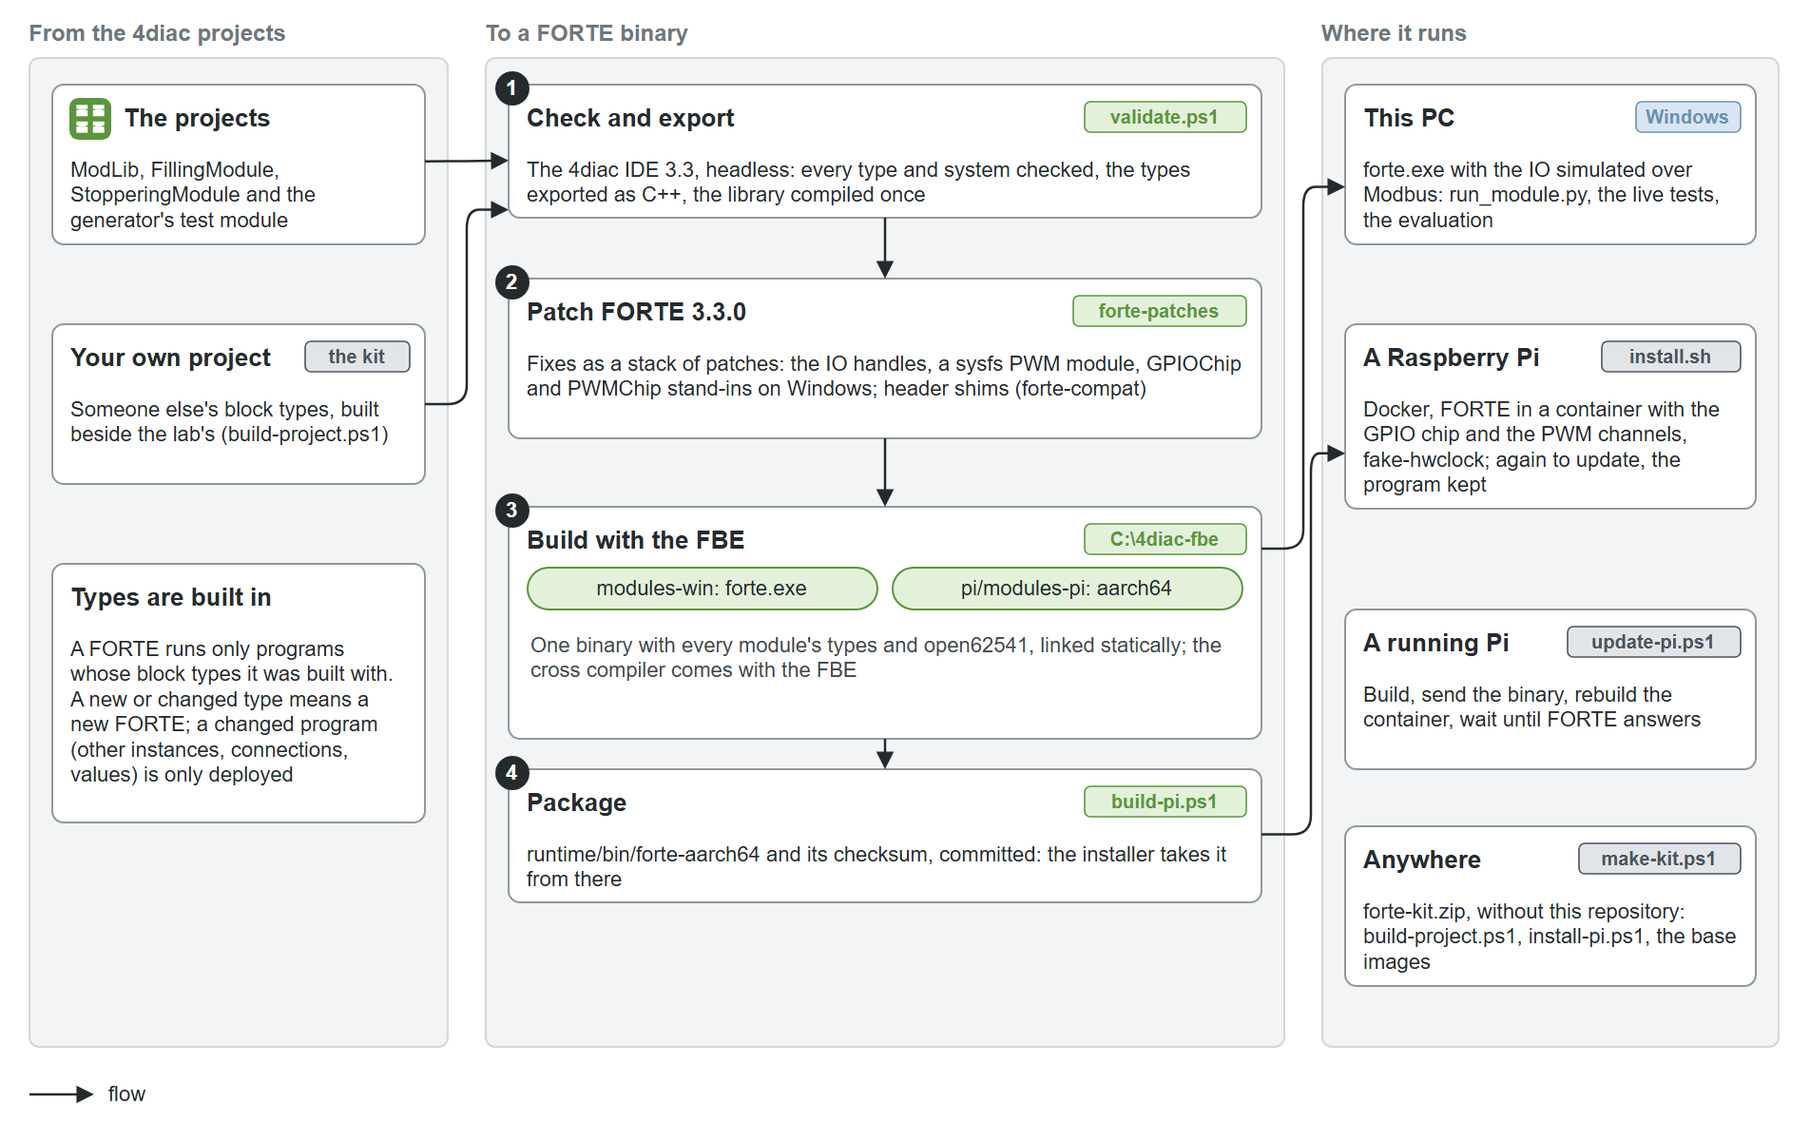
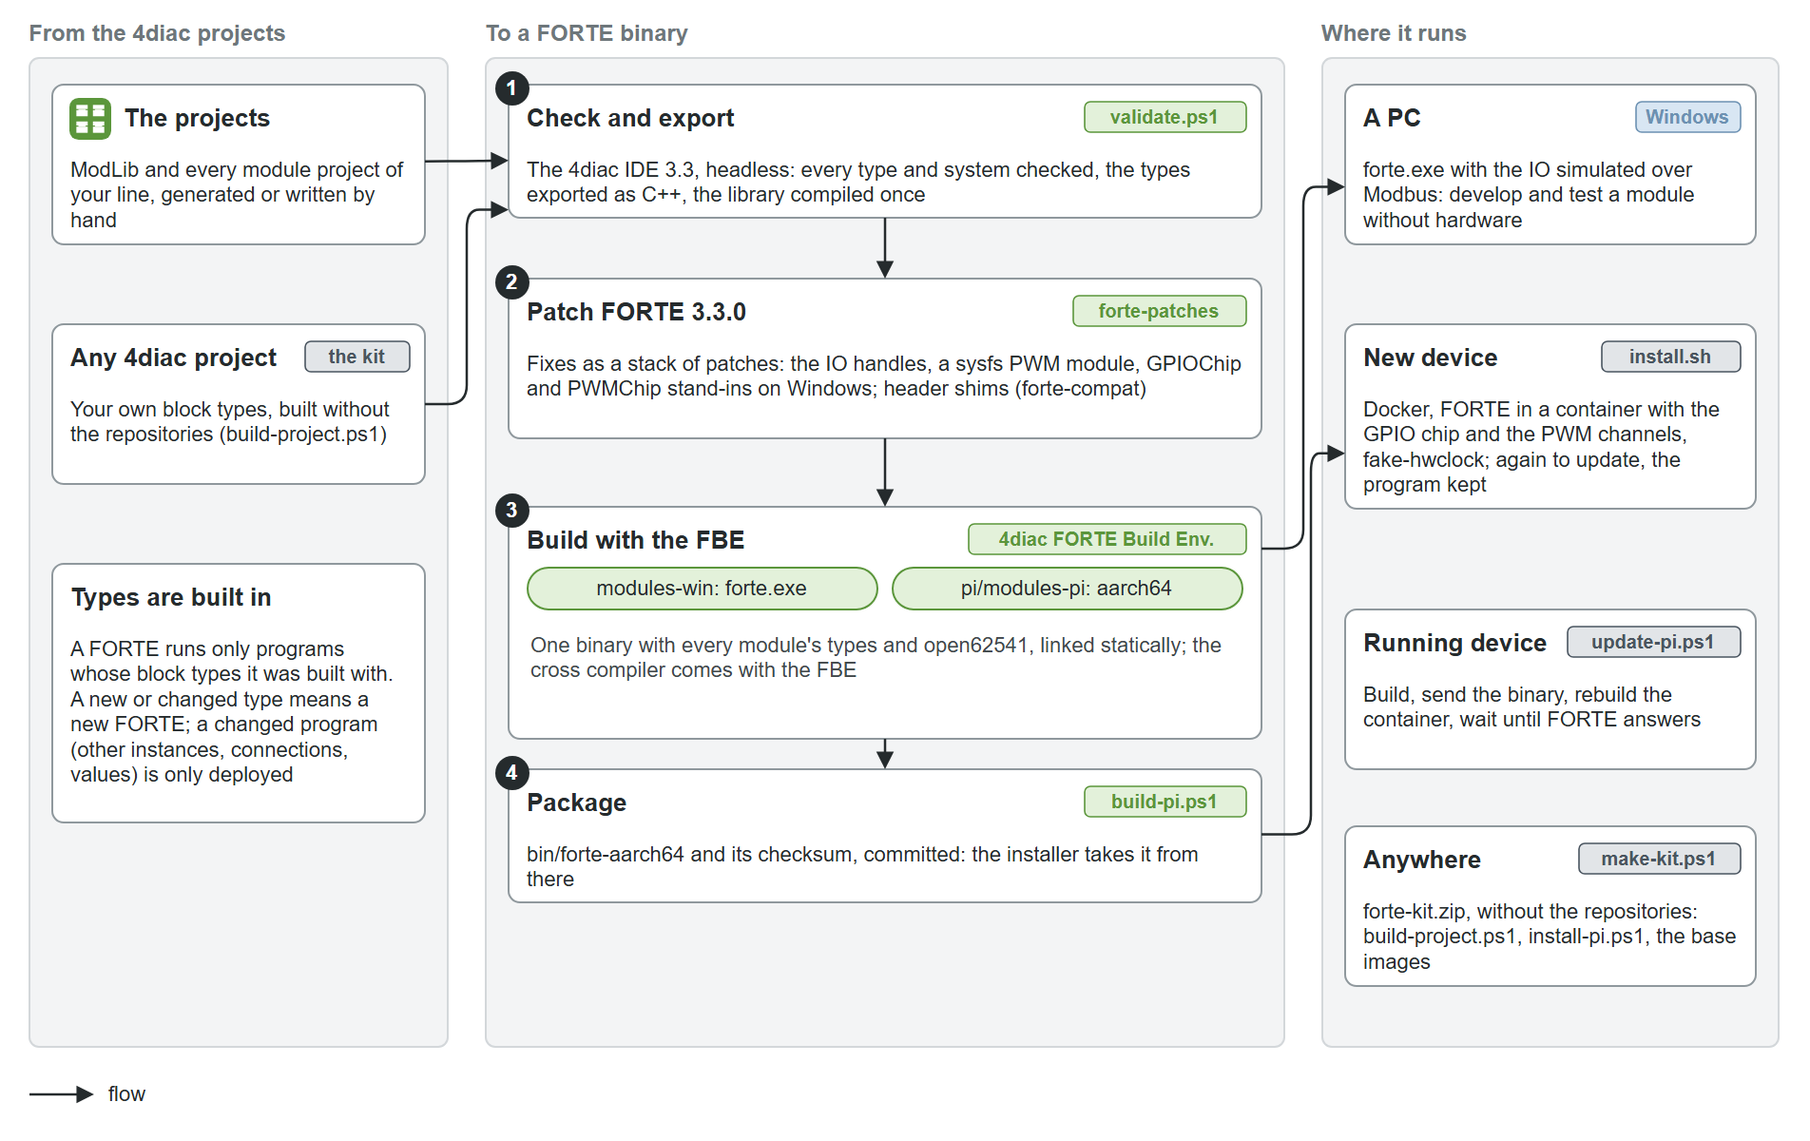
Reconfiguration pages and figures: your own modules, placeholders, current paths

diff --git a/docs/reconfiguration/modsync.md b/docs/reconfiguration/modsync.md
@@ -2,15 +2,15 @@
 
 <span class="pillar reconfiguration">Reconfiguration</span> Keeps a running IEC 61499 program and its AAS
 in step. It reads what runs over FORTE's management protocol, compares it with what the AAS describes,
-changes the program online where the module rules allow it, verifies the change and records it. Folder
-`aas61499-tools/modsync`; becomes the `modsync` repository.
+changes the program online where the module rules allow it, verifies the change and records it. A
+package of [aaspire-tools](https://github.com/AAU-AASPIRE/aaspire-tools).
 
 <figure markdown="span">
   [![The module's AAS on the left, modsync's six steps in the middle, FORTE and its boot file on the
   right](../figures/modsync.png)](../figures/modsync.png)
   <figcaption>What runs (1) and what is wanted (2) are compared (3); what may change online is guarded
-  (4), applied (5), verified and recorded (6). BottomUpFilling is described in the AAS and created
-  while the module runs.</figcaption>
+  (4), applied (5), verified and recorded (6). SkillX is described in the AAS and created while the
+  module runs.</figcaption>
 </figure>
 
 ## The six steps
@@ -35,39 +35,45 @@ changes the program online where the module rules allow it, verifies the change 
    every instance with its block type and hash.
 
 **modsync project** goes the other way: FORTE keeps the program, not the 4diac project, so the program
-read back by the rules becomes an IDE project again, with the layout arranged in the IDE.
+read back by the rules becomes an IDE project again, with the layout arranged in the IDE. Use it when
+you need to look at what a module runs and have no project for it.
 
 ## What an online change costs
 
+Measured on the example line's filling module:
+
 | Skill | Flow | Instances | Connections | Management commands |
 | --- | --- | --- | --- | --- |
-| Dispensing | 4 steps | 13 | 63 | 142 |
-| DoubleDose | 5 steps | 15 | 73 | 165 |
-| Checked | 6 steps, two decisions | 23 | 98 | 224 |
-| Ready | a parallel block of two steps | 5 | 31 | 64 |
+| A sequence of 4 steps | 4 steps | 13 | 63 | 142 |
+| A sequence of 5 steps | 5 steps | 15 | 73 | 165 |
+| With decisions | 6 steps, two decisions | 23 | 98 | 224 |
+| A parallel block | two steps in parallel | 5 | 31 | 64 |
 
-DoubleDose was created in 0.04 s on a PC and in 1.6 s in all on a Raspberry Pi 5, most of it the boot
-file over SSH, while another skill ran. Verifying a module against its AAS takes about 0.15 s over the
-network.
+A five-step skill was created in 0.04 s on a PC and in 1.6 s in all on a Raspberry Pi 5, most of it
+the boot file over SSH, while another skill ran. Verifying a module against its AAS takes about 0.15 s
+over the network.
 
 ## Use it
 
+`<aas>` is a folder of AAS files or an AAS server (`http://<host>:8081`); `--shell` picks the module's
+AAS when there are several:
+
 ```powershell
-python -m modsync verify aas --host 192.168.0.203                 # is the module what its AAS describes?
-python -m modsync verify aas --host 192.168.0.203 --record        # ... and write down what was found
-python -m modsync reconfigure http://localhost:8081 --shell FillingModuleAAS --dry-run   # what would change
-python -m modsync reconfigure aas --host 192.168.0.203            # change it online, verify, record
-python -m modsync project --host 192.168.0.203                    # the 4diac project of what runs (projects/)
-python -m modsync pull --host 192.168.0.203                       # which module runs there, its drift, its AAS
+python -m modsync verify <aas> --host <module host>                  # is the module what its AAS describes?
+python -m modsync verify <aas> --host <module host> --record         # ... and write down what was found
+python -m modsync reconfigure <aas> --shell <Module>AAS --dry-run    # what would change
+python -m modsync reconfigure <aas> --host <module host>             # change it online, verify, record
+python -m modsync project --host <module host>                       # the 4diac project of what runs (projects/)
+python -m modsync pull --host <module host>                          # which module runs there, its drift, its AAS
 ```
 
-The AASs are a folder of AAS files or an AAS server; `reconfigure` puts the changed submodels back where
-they came from, and the record goes to `--records` (a folder, `records/` by default, or the registration
-service). Without `--host`, the record says where the module is managed. `--force` writes values even
-while the module runs or is occupied.
+`reconfigure` puts the changed submodels back where they came from, and the record goes to `--records`
+(a folder, `records/` by default, or the registration service). Without `--host`, the record says where
+the module is managed. `--force` writes values even while the module runs or is occupied.
 
 The Python functions behind the commands are in `modsync/desired.py` (`load`, `read`, `differences`,
-`reconfigure`, `record`, `store`); the agents call them to create a skill before they run it.
+`reconfigure`, `record`, `store`); call them from your own code, as the agents do to create a skill
+before they run it.
 
 ## What it does not do
 
@@ -75,8 +81,8 @@ It never calls a skill ([modlink](../integration/modlink.md) does). It never rem
 online: that needs a restart, and the AAS does not hold the wiring of the rest of the program from
 which a whole boot file could be made. It changes no block types.
 
-Beside the AAS mode, modsync has an older mode against a module spec (`pull`, `push`, `watch`), the
-vendor's and the lab's development tool; it is to be folded into the AAS mode.
+Beside the AAS mode, modsync has a mode against a module spec (`pull`, `push`, `watch`), a development
+tool for whoever builds the module; it is to be folded into the AAS mode.
 
-Read further: [tools.md](../reference/tools.md),
-section 3; [mapping.md](../reference/mapping.md).
+Read further: [how the tools work](../reference/tools.md), section 3;
+[from the AAS to IEC 61499 and back](../reference/mapping.md).

diff --git a/docs/reconfiguration/runtime.md b/docs/reconfiguration/runtime.md
@@ -1,21 +1,22 @@
 # FORTE runtime
 
-<span class="pillar reconfiguration">Reconfiguration</span> Eclipse 4diac FORTE built with every module's
-block types: for Windows (the modules with simulated IO) and for the Raspberry Pi (aarch64, real IO).
-The scripts that check and export the 4diac projects, patch and build FORTE, package it and put it on a
-Pi. Folder `runtime/`; becomes the `forte-runtime` repository.
+<span class="pillar reconfiguration">Reconfiguration</span> Eclipse 4diac FORTE built with your modules'
+block types: for Windows (modules with simulated IO) and for 64-bit Linux edge devices such as a
+Raspberry Pi (aarch64, real IO). The scripts that check and export the 4diac projects, patch and build
+FORTE, package it and put it on a device. Repository
+[forte-runtime](https://github.com/AAU-AASPIRE/forte-runtime).
 
 <figure markdown="span">
   [![The 4diac projects on the left, four steps to a FORTE binary in the middle, and where it runs on
   the right](../figures/runtime.png)](../figures/runtime.png)
   <figcaption>Check and export (1), patch FORTE (2), build with the 4diac FORTE Build Environment (3),
-  package (4); then a PC, a fresh Pi, a running Pi, or someone else's PC with the kit.</figcaption>
+  package (4); then a PC, a new device, a running device, or anywhere with the kit.</figcaption>
 </figure>
 
 A FORTE runs only programs whose block types it was built with. A new or changed block type (a skill,
 an equipment item, a library block) means a new FORTE; a changed program (other instances,
 connections, values) does not: it is only deployed. One binary holds every module's types and serves
-every Pi; each Pi deploys only its own module's program.
+every device; each device deploys only its own module's program.
 
 ## The steps
 
@@ -24,29 +25,31 @@ every Pi; each Pi deploys only its own module's program.
 2. **Patch FORTE 3.3.0** (`forte-patches/`, a stack of patches; header shims in `forte-compat/`): the IO
    handles fixed, a sysfs PWM module, stand-ins for GPIOChip and PWMChip where FORTE has no GPIO
    (Windows).
-3. **Build** with the 4diac FORTE Build Environment (FBE, `C:\4diac-fbe`): `modules-win` gives
-   `forte.exe`, `pi/modules-pi` the aarch64 binary; open62541 and the rest linked statically; the FBE
-   brings the cross compiler.
-4. **Package** (`build-pi.ps1`): `runtime/bin/forte-aarch64` with its checksum, committed, so the
-   installer finds it.
+3. **Build** with the 4diac FORTE Build Environment (FBE): `modules-win` gives `forte.exe`,
+   `pi/modules-pi` the aarch64 binary; open62541 and the rest linked statically; the FBE brings the
+   cross compiler.
+4. **Package** (`build-pi.ps1`): `bin/forte-aarch64` with its checksum, committed, so the installer
+   finds it.
+
+In `forte-runtime`:
 
 ```powershell
-runtime/build-modules.ps1                 # modgen's projects checked and exported, FORTE for Windows
-runtime/build-pi.ps1                      # FORTE for the Pi, packaged into runtime/bin
-runtime/build-pi.ps1 -SkipValidate        # reuse the last export: only compile and package
-runtime/check-project.ps1 -ProjectDir cell/control/FillingModule   # only the IDE's checks
+.\build-modules.ps1                       # the line's projects checked and exported, FORTE for Windows
+.\build-pi.ps1                            # FORTE for the device, packaged into bin/
+.\build-pi.ps1 -SkipValidate              # reuse the last export: only compile and package
+.\check-project.ps1 -ProjectDir ../aseptic-line/cell/control/<Module>   # only the IDE's checks
 ```
 
-Needed once: the 4diac IDE 3.3 (its version must match FORTE's; elsewhere set `FORDIAC_IDE`), the FBE
-cloned into `C:\4diac-fbe`, Python with the repository installed, and git.
+Needed once: the 4diac IDE 3.3 (its version must match FORTE's; set `FORDIAC_IDE` to its
+`4diac-idec.exe`), the FBE cloned into `C:\4diac-fbe`, Python with aaspire-tools installed, and git.
 
 ## Where it runs
 
 | Where | How |
 | --- | --- |
-| This PC | `forte.exe` with the IO simulated over Modbus: [run a module on a PC](../how-to/simulation.md), the live tests, the evaluation |
-| A fresh Raspberry Pi | `runtime/install.sh`: Docker, FORTE in a container with the GPIO chip and the PWM channels, `fake-hwclock`; run again to update, the program is kept ([on a Pi](../how-to/raspberry-pi.md)) |
-| A Pi that runs FORTE | `runtime/update-pi.ps1 -Pi user@address`: build, send the binary, rebuild the container, wait until FORTE answers |
-| Someone else's PC | `runtime/make-kit.ps1` makes `forte-kit.zip`: `build-project.ps1 -Project <their folder>` builds FORTE with their own block types, `install-pi.ps1 -Pi user@address` installs it over SSH, even on a Pi without internet |
+| A PC | `forte.exe` with the IO simulated over Modbus: develop and test a module without hardware ([run a module on a PC](../how-to/simulation.md)) |
+| A new edge device | `install.sh`: Docker, FORTE in a container with the GPIO chip and the PWM channels, `fake-hwclock`; run again to update, the program is kept ([deploy to an edge device](../how-to/raspberry-pi.md)) |
+| A device that runs FORTE | `update-pi.ps1 -Pi user@address`: build, send the binary, rebuild the container, wait until FORTE answers |
+| Anywhere, with your own blocks | `make-kit.ps1` makes `forte-kit.zip`: `build-project.ps1 -Project <your project folder>` builds FORTE with your own block types, `install-pi.ps1 -Pi user@address` installs it over SSH, even on a device without internet |
 
-Read further: [forte-for-the-pi.md](../reference/forte-for-the-pi.md).
+Read further: [building FORTE for the Raspberry Pi](../reference/forte-for-the-pi.md).

diff --git a/docs/reconfiguration/skill-lib.md b/docs/reconfiguration/skill-lib.md
@@ -1,25 +1,26 @@
 # Skill library
 
-<span class="pillar reconfiguration">Reconfiguration</span> In `aaspire-tools`: ModLib, the library
-every module is built from (occupation, the PackML state manager, the skill state machine, parameter
-latches, flow blocks, IO blocks), and `modgen`, which generates a module's 4diac project from its
-module spec. Folders `ModLib/`, `stdtypes/` and `modgen/` of aaspire-tools.
+<span class="pillar reconfiguration">Reconfiguration</span> ModLib, the IEC 61499 library every module
+is built from (occupation, the PackML state manager, the skill state machine, parameter latches, flow
+blocks, IO blocks), and `modgen`, which generates a module's 4diac project from its module spec.
+Folders `ModLib/`, `stdtypes/` and `modgen/` of
+[aaspire-tools](https://github.com/AAU-AASPIRE/aaspire-tools).
 
 <figure markdown="span">
   [![A module spec on the left, what modgen writes in the middle (ModLib and the module's project), and
   the application as FORTE runs it on the right: the INIT chain from START down to the composite skill
-  Dispensing](../figures/skill-lib.png)](../figures/skill-lib.png)
+  SkillA](../figures/skill-lib.png)](../figures/skill-lib.png)
   <figcaption>From the spec, modgen writes the library and the module's project; the application is one
   INIT chain from the resource's START: the module level, equipment, primitives, procedures, then the
   composite skills, each a subapplication.</figcaption>
 </figure>
 
-## The module spec
+## Write a module spec
 
-A module spec (YAML, `cell/modules/<module>.yaml`) is the vendor-side description a module is
-generated from:
+A module spec (YAML, `modules/<module>.yaml` in your line's repository) describes the module you are
+building:
 
-- **targets**: where it runs; `pc` with its IO simulated over Modbus, `pi` with GPIO and PWM;
+- **targets**: where it runs; `pc` with its IO simulated over Modbus, `pi` with real GPIO and PWM;
 - **equipment**: each item's IO points, an address per target, and its commands;
 - **skill primitives**: one equipment command until a sensor condition or a time;
 - **module level skills**: parameters and a flow of primitives;
@@ -44,24 +45,29 @@ and the same skill generated from a spec are the same program; a test compares t
 flow.
 
 The library's types are compiled into FORTE once, from ModLib; each module's project declares them so
-the IDE can open it on its own. The generated projects are opened in the 4diac IDE from the repository
-without copying them: positions arranged in the IDE are kept when the projects are generated again, and
-only what overlaps is spread.
+the IDE can open it on its own. Open the generated projects in the 4diac IDE from the repository
+without copying them: positions you arrange in the IDE are kept when the projects are generated again,
+and only what overlaps is spread.
+
+You do not have to generate a module: a program written by hand in the 4diac IDE inside the same
+shell is as good, as long as it follows the [module rules](../reference/module-rules.md).
 
 ## Use it
 
+modgen finds the line's specs in `$MODGEN_CELL`, else in `./cell`; point it at your own line's folder:
+
 ```powershell
-cd aseptic-line
+cd aseptic-line                                   # or set MODGEN_CELL to your line's folder
 python -m modgen                                  # ModLib and every module's project
-../forte-runtime/check-project.ps1 -ProjectDir cell/control/FillingModule   # the 4diac IDE's own checks, headless
+../forte-runtime/check-project.ps1 -ProjectDir cell/control/<Module>   # the 4diac IDE's own checks, headless
 cd ../aaspire-tools
 python -m pytest -q tests/test_modgen.py          # the generator against the committed projects
 ```
 
-A change to the generator is committed with the regenerated projects; a test generates every project
-again and compares. A new or changed block type needs a new [FORTE](runtime.md).
+Commit a change to the generator with the regenerated projects; a test generates every project again
+and compares. A new or changed block type needs a new [FORTE](runtime.md).
 
-Read further: [module-rules.md](../reference/module-rules.md),
-[building-skills.md](../reference/building-skills.md)
-(a new skill, primitive or piece of equipment), [filling-program.md](../reference/filling-program.md)
-(the filling program block by block).
+Read further: [how a module is built: the rules](../reference/module-rules.md),
+[building skills and equipment](../reference/building-skills.md)
+(a new skill, primitive or piece of equipment), [the filling program](../reference/filling-program.md)
+(a module program block by block).

diff --git a/docs/reconfiguration/mgmt.md b/docs/reconfiguration/mgmt.md
@@ -3,7 +3,8 @@
 <span class="pillar reconfiguration">Reconfiguration</span> `iec61499_mgmt`: Eclipse 4diac FORTE's
 management protocol in Python, and what is built on it: a 4diac system flattened into commands, boot
 files, a type library with FORTE's type hashes, plans from one program to another, and read-back.
-Folder `iec61499-mgmt-py/`; stays the `iec61499-mgmt-py` repository.
+Use it when you need to talk to a FORTE from Python. Repository
+[iec61499-mgmt-py](https://github.com/AAU-AASPIRE/iec61499-mgmt-py).
 
 <figure markdown="span">
   [![What the library reads on the left, its modules in the middle with the protocol below them, and
@@ -28,24 +29,24 @@ Folder `iec61499-mgmt-py/`; stays the `iec61499-mgmt-py` repository.
 ```python
 from iec61499_mgmt.protocol import Client, Command
 
-with Client("192.168.0.203", 61499) as forte:
+with Client("<module host>", 61499) as forte:
     fbs = forte.execute(Command(op="query_fbs", resource="RES")).fbs        # every block: name, type
-    src = "Filling_pi.Module.State"
+    src = "<Application>.Module.State"
     state = forte.execute(Command(op="read", resource="RES", source=src)).read_value(src)
 ```
 
 A program runs inside its application's container, so a name is `<Application>.<Block>.<Pin>`; the
-resource's own `START` block is outside. FORTE's port 61499 has no login: it belongs on the lab's
+resource's own `START` block is outside. FORTE's port 61499 has no login: keep it on a trusted
 network only. Two things to avoid: deleting a resource with a GPIOChip in it (FORTE 3.3 crashes), and
 killing a resource that does not exist (FORTE shuts down). A program is replaced by a new boot file
 and a restart.
 
 ```powershell
-python -m iec61499_mgmt boot --system cell/control/FillingModule/FillingModule.sys --application Filling --out forte.fboot
-python -m iec61499_mgmt types --types-dir "cell/control/FillingModule/Type Library" --host 127.0.0.1 --out types.json
+python -m iec61499_mgmt boot --system <Project>/<Project>.sys --application <Application> --out forte.fboot
+python -m iec61499_mgmt types --types-dir "<Project>/Type Library" --host 127.0.0.1 --out types.json
 python -m iec61499_mgmt plan --current current.json --desired desired.json --library types.json --out plan.json
 python -m iec61499_mgmt schema network --out network.schema.json   # the JSON contracts: network, patch, plan, library
 ```
 
-Used by [modsync](modsync.md) (reading and changing online), `deploy/pi.py` (boot files), modgen's
-tests and the evaluation.
+Used by [modsync](modsync.md) (reading and changing online), `deploy/pi.py` (boot files) and modgen's
+tests.

diff --git a/docs/reconfiguration/index.md b/docs/reconfiguration/index.md
@@ -3,13 +3,14 @@
 <span class="pillar reconfiguration">Reconfiguration</span> A module's AAS is its desired state. A
 reconfiguration is a change to that AAS, which the tools then carry into the running IEC 61499
 program, online where the rules allow it. Who made the change (an engineer in the Skill Editor, a
-planner, an agent) is a separate matter.
+planner, an agent) does not matter to the tools: you change the AAS, they change the program.
 
 ## The module rules: the contract
 
 The tools rely on rules, not on the generator: a program that follows them can be verified, operated
 and given a new skill from its AAS and its running program alone, whether it was generated or written
-by hand in the 4diac IDE. A module names the rule set it follows in its AAS (`RuleSet`).
+by hand in the 4diac IDE. A module names the rule set it follows in its AAS (`RuleSet`). Build your
+own modules by these rules and every tool on this site works with them:
 
 1. **The shell**, fixed for every module: one application on one FORTE resource, published below
    `/Objects/<Module>` on its OPC UA server; `Occupation` (who may command it) and `Module` (its PackML
@@ -43,9 +44,9 @@ that runs, so it is created in any state, even while another skill executes.
 | aaspire-tools: modsync | The running program against its AAS: verify, change online, record, the IDE project of what runs | [modsync](modsync.md) |
 | aaspire-tools: ModLib, modgen | ModLib (the module library), modgen (spec to 4diac project), the module rules | [Skill library](skill-lib.md) |
 | iec61499-mgmt-py | FORTE's management protocol in Python, boot files, `.sys` flattening, read-back | [Management library](mgmt.md) |
-| forte-runtime | FORTE built with every module's block types, for the PC and the Raspberry Pi | [FORTE runtime](runtime.md) |
+| forte-runtime | FORTE built with your modules' block types, for the PC and for edge devices | [FORTE runtime](runtime.md) |
 | Skill Editor | A composite skill written as a flow, in the web UI | [Web UI](../interfaces/web-ui.md) |
 
-Read further: [module-rules.md](../reference/module-rules.md),
-[pipeline.md](../reference/pipeline.md),
-[mapping.md](../reference/mapping.md) (an AAS skill as blocks).
+Read further: [how a module is built: the rules](../reference/module-rules.md),
+[from AAS to running code, and back](../reference/pipeline.md),
+[from the AAS to IEC 61499 and back](../reference/mapping.md) (an AAS skill as blocks).
